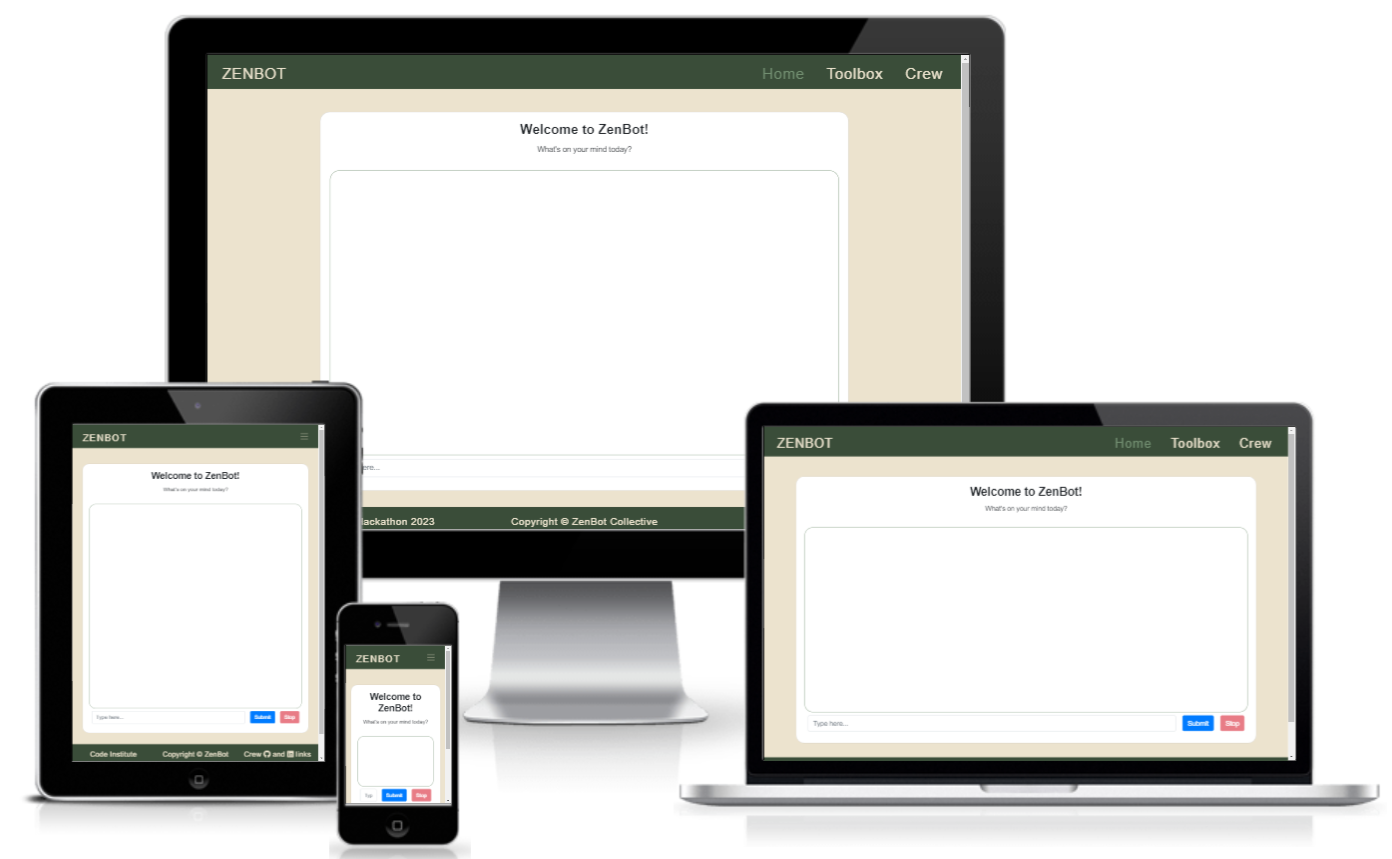
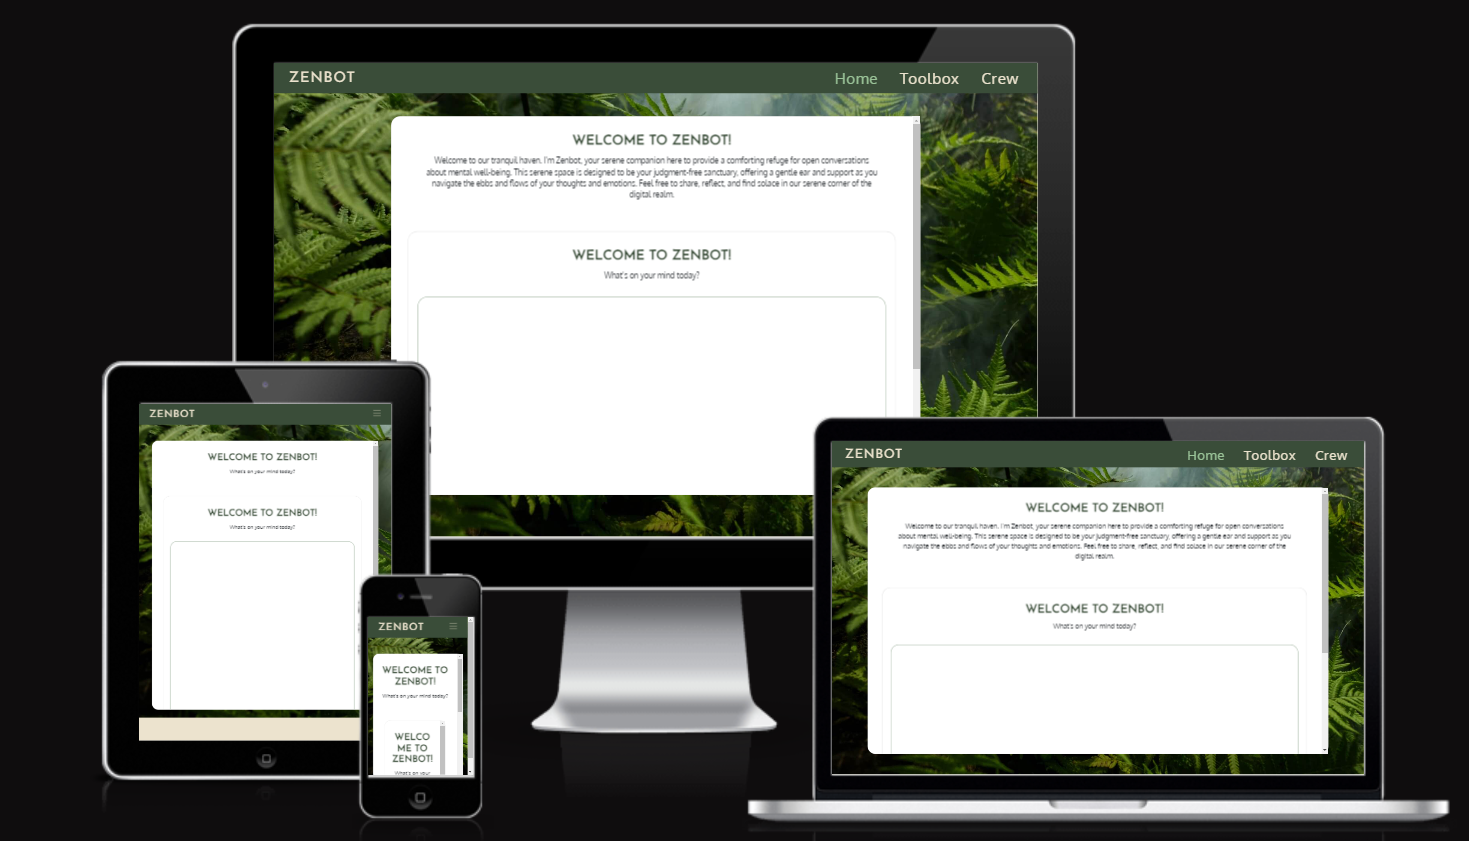
updated readme completing blank sections

diff --git a/README.md b/README.md
@@ -1,6 +1,6 @@
 # ZenBot
 
-A mental Health chatbot for the C.I Movember London Hackathon
+A mental Health chatbot for the C.I Movember London Hackathon developed by the Zenbot collective team in November 202
 
 ![Zenbot home screen](/docs/sitemockup.png)
 ***
@@ -18,8 +18,8 @@ A mental Health chatbot for the C.I Movember London Hackathon
     * [***Typography***](#typography)
 1. [**Features**](#features)
     * [**Home page**](#home-page)
-    * [**Resources page**](#resources-page)
-    * [**About page**](#about-page)
+    * [**Toolbox page**](#toolbox-page)
+    * [**About page**](#crew-page)
 1. [**Technologies**](#technologies)
 1. [**Deployment**](#deployment)
 1. [**Testing**](#testing)
@@ -49,9 +49,9 @@ A mental Health chatbot for the C.I Movember London Hackathon
 
 ### **Site Aims:**
 
-* The main aim of the site is to provide information to men experiencing mental health issues.
+* The main aim of the site is to provide information to men experiencing phsyical and mental health issues.
 * This information is supplied via a chatbot, powered by chatGPT, which men can use to talk about their feelings
-* Supplemental to this is a 'Toolbox' page, which has links to various types of information, grouped into 6 sections.
+* Supplemental to this is a 'Toolbox' page, which has links to various types of information, grouped into 6 sections, diy, crisis, support, facts, success stories and strategies.
 ***
 
 ### **Wireframes:**
@@ -64,50 +64,83 @@ A mental Health chatbot for the C.I Movember London Hackathon
 ### ***Home Page:***
      Header with a logo of the website and navbar.
 
-### ***Resources Page:***
+### ***Toolbox Page:***
     Header with a logo of the website and navbar.
-### ***About Page:***
+### ***Crew Page:***
      Header with a logo of the website and navbar.
 
 ***
 
 ## **Technologies**
 
-* HTML
-* CSS
-* JavaScript
-* API's
-* chatGPT
+* [HTML](https://www.w3schools.com/html/html_basic.asp)
+* [CSS](https://www.w3schools.com/css/default.asp)
+* [Bootstrap](https://www.w3schools.com/bootstrap5/index.php)
+* [JavaScript](https://www.w3schools.com/js/default.asp)
+* [OpenAI API (gpt-3.5-turbo)](https://openai.com/)
+* [Vercel](https://vercel.com/)
 
 ***
 
 ## Deployment
 
-* 
-* 
-* 
+* [The app was deployed to vercel](https://vercel.com/docs/deployments/overview)
+* The Chatgpt secret key was put in the environment variables for vercel.
+
+## Issues with deployment
+* We had issues with timeouts when using the chatgpt function.  It timed out after a few seconds of use leaving the user with an incomplete response to a question.  This was solved by increasing the amount of time for the serverless function to run to 5 minutes.  This ensure that a user got a response each time to their question.
+* We also had to pass an object as a variable to the serverless function in order to get the vercel app to run properly.
 ***
 
 ## Testing
 
-* 
-* 
-* 
+* No automated testing was done.
+* All testing was done manually by team members.
+* We ran our code through [HTML and CSS W3 schools validators](https://validator.w3.org/)
+
+## Future improvements
+
+* We could implement a conversation history which would need login and logout functionality added.
+* A subscription model could be introduce to pay for future development costs of the app.
+* The app could be developed into a cross platform app for users to use on their phone.
+* The AI model could be trainied to cover other groups like parents and relationships.
+* Various prompts could be used for users to use to find out answers to questions and users could also add their own prompts at the bottom of the AI question bar as well.  Answers generated could then be saved to a users history.
 ***
 
 ## Credits
-The chosen colour pallete was from 
+* The chosen colour pallete was from 
 [colour hunt](https://colorhunt.co/palette/ece3ce7390724f6f523a4d39)
+
+* The support page image link came from unsplash and the photo was by [Prisilla De Creez](https://unsplash.com/@priscilladupreez?utm_content=creditCopyText&utm_medium=referral&utm_source=unsplash)
+
+* We used links from various mental health and mens health sites in pages on the app
+* [Mind mental health](https://mentalhealth-uk.org/mens-mental-health/)
+* [ONS data on suicide](https://www.ons.gov.uk/peoplepopulationandcommunity/birthsdeathsandmarriages/deaths/bulletins/suicidesintheunitedkingdom/2021registrations)
+* [Infographic on facts page](https://www.menshealthforum.org.uk/statistics)
+* [Benefits of Support Groups for Men’s Mental Health](https://betterhumans.pub/strength-in-community-the-positive-impact-of-mens-support-groups-6c158fae406c)
+* [NHS Tips to reduce stress](https://www.nhs.uk/mental-health/self-help/guides-tools-and-activities/tips-to-reduce-stress/)
+* [Meditation](https://www.pixelthoughts.co/)
+* [Crisis on line help](https://findahelpline.com/gb/topics/suicidal-thoughts)
+* Other images for webpages came from [unsplash](https://unsplash.com/) and [bingchat](https://www.bing.com/search?q=Bing+AI&showconv=1)
+
+
+
+
+
+
+
 
 
 
 ## Contributors
 
-* 
-* 
-* 
-* 
-* 
-* 
+* The lead on implementing the chatgpt model  and on deployment was taken by [Christian](https://github.com/Robrowno).  
+* Other contributors listed below worked on the front end of the site.
+* [Debbie](https://github.com/debbiect246)
+* [James](https://github.com/broken-helix)
+* [Kunal](https://github.com/kun-shukla)
+* [Sarah](https://github.com/barty-s)
+* [Yasir](https://github.com/yasirwiifto)
+
 
 ***
